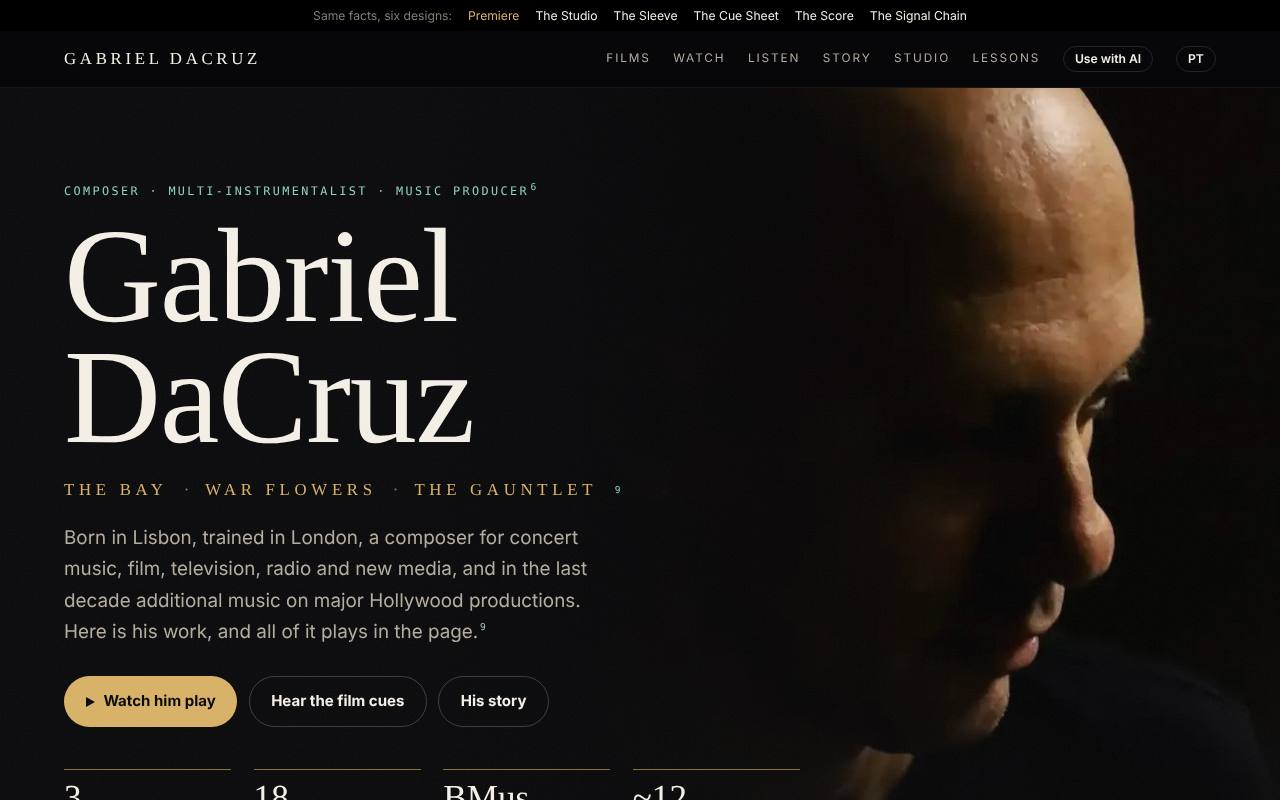
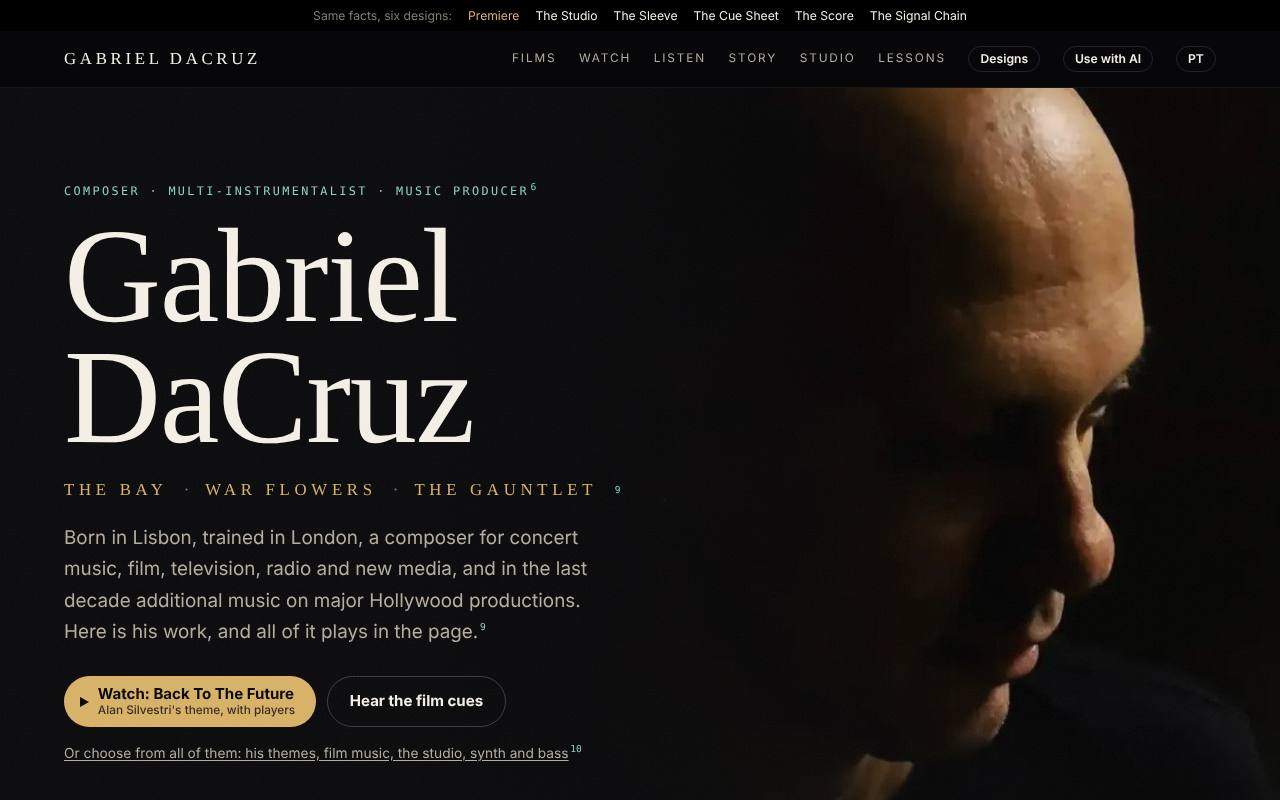
Ideas from Marc Noah's site: a hero button that plays a film, a designs picker, video filters
As Dinis pointed to marc-noah.agenticcells.site (2026-11-18). The Premiere
hero's main button now plays Back To The Future in the player instead of
scrolling. A Designs button in the header opens a picker with thumbnails of
the six designs. Every design's video section gets filter chips (All, his
own music, sung, film and concert, synth and bass), built by play.js from the
group headings, so the Portuguese page gets them in Portuguese. A new section
sets his own words beside a black-and-white photo of him at the desk. Tested
in Chromium: the hero plays, the picker opens with six designs, the chips
filter, no errors.

Agent: site@AgentiCCells.gabriel-dacruz
Claude-Session: https://claude.ai/code/session_018yvwtMzZFjMtEAasK8H6qt

diff --git a/src/index.html b/src/index.html
@@ -44,6 +44,7 @@
       <a href="#studio">Studio</a>
       <a href="#lessons">Lessons</a>
     </nav>
+    <a class="chip" href="/d/" data-designs>Designs</a>
     <a class="chip" href="/agents/">Use with AI</a>
     <a class="chip" href="/pt/" hreflang="pt" lang="pt">PT</a>
   </div>
@@ -58,10 +59,10 @@
     <p class="billing">The Bay <i>·</i> War Flowers <i>·</i> The Gauntlet<sup class="s"><a href="#s9">9</a></sup></p>
     <p class="lede">Born in Lisbon, trained in London, a composer for concert music, film, television, radio and new media, and in the last decade additional music on major Hollywood productions. Here is his work, and all of it plays in the page.<sup class="s"><a href="#s9">9</a></sup></p>
     <div class="btns">
-      <a class="btn btn-gold" href="#watch">Watch him play</a>
+      <a class="btn btn-gold btn-feature" href="https://www.youtube.com/watch?v=PQUijA_qB-U" data-yt="PQUijA_qB-U" data-title="Back To The Future, Alan Silvestri, from his channel"><span>Watch: Back To The Future<small>Alan Silvestri's theme, with players</small></span></a>
       <a class="btn btn-line" href="#listen">Hear the film cues</a>
-      <a class="btn btn-line" href="#story">His story</a>
     </div>
+    <p class="hero-or"><a href="#watch">Or choose from all of them: his themes, film music, the studio, synth and bass</a><sup class="s"><a href="#s10">10</a></sup></p>
     <div class="keys">
       <div class="key"><b>3</b><span>productions his own site leads with<sup class="s"><a href="#s9">9</a></sup></span></div>
       <div class="key"><b>18</b><span>videos and Shorts on his channel, all playable here<sup class="s"><a href="#s10">10</a></sup></span></div>
@@ -79,7 +80,7 @@
     <!--#inc films.part -->
     <div class="films-foot">
       <figure class="viz"><!--#inc fig-cuemap.svg --><figcaption>His cues on SoundCloud, placed by their names: the number before M is the reel, the number after it the cue. Cue numbers, not timings.<sup class="s"><a href="#s7">7</a></sup></figcaption></figure>
-      <blockquote class="quote">"A versatile career as a composer, working across a wide range of genres and mediums, including concert music, film, television, radio, and new media."<cite>Gabriel, on his own site<sup class="s"><a href="#s9">9</a></sup></cite></blockquote>
+      <div><p class="cap" style="margin-top:0">Three productions, seven cues on his SoundCloud. Which parts of each score he wrote is <span class="tbc">to confirm</span>; his IMDb page lists his credits.</p><a class="imdb" href="https://www.imdb.com/name/nm4704147/">IMDb</a></div>
     </div>
   </div>
 </section>
@@ -90,6 +91,18 @@
     <h2 id="watch-h">Watch him play</h2>
     <p class="intro">His themes, film music with players around him, and the studio. Eighteen videos and Shorts from his channel, and two of his themes sung, each a click away.</p>
     <!--#inc videos.part -->
+  </div>
+</section>
+
+<section class="band words" aria-labelledby="words-h">
+  <div class="wrap">
+    <figure class="words-ph"><img src="/assets/photos/studio-desk-bw-900.jpg" srcset="/assets/photos/studio-desk-bw-500.jpg 500w, /assets/photos/studio-desk-bw-900.jpg 900w" sizes="(min-width: 58rem) 30vw, 100vw" width="900" height="1080" alt="Gabriel at his studio desk with a bass, in black and white." loading="lazy"></figure>
+    <div>
+      <p class="kicker" id="words-h">The composer, in his own words</p>
+      <blockquote class="quote big">A versatile career as a composer, working across a wide range of genres and mediums, including concert music, film, television, radio, and new media.<cite>Gabriel, on his own site<sup class="s"><a href="#s9">9</a></sup></cite></blockquote>
+      <p class="intro" style="margin:1.4rem 0 1rem">Trained at the Instituto Gregoriano de Lisboa, then in London, with a BMus in Composition from the London College of Music. His brother adds the rest: the band in the Algarve, a music school, and an orchestra in Lisbon that played film music live, in time with the films.<sup class="s"><a href="#s9">9</a></sup><sup class="s"><a href="#s1">1</a></sup></p>
+      <a class="btn btn-line" href="#story">His story</a>
+    </div>
   </div>
 </section>
 
@@ -220,6 +233,7 @@
     <p>Version __VERSION__ · <a href="/d/">Six designs</a> · <a href="/pt/" hreflang="pt" lang="pt">Português</a> · <a href="https://dev.vault.sgraph.ai/#sgit_public_read_86bc4bc4edc64c4a5acf4dcda733513ccf8e2b3181605dcf7d0a45bb1be75120%3Aygs1ybi0">vault ygs1ybi0</a> · Code Apache-2.0, text and drawings CC BY 4.0, photos Gabriel's own</p>
   </div>
 </footer>
+<!--#inc designs-dialog.part -->
 <!--#inc player.part -->
 </body>
 </html>

diff --git a/src/assets/media.css b/src/assets/media.css
@@ -86,3 +86,21 @@ dialog.player.vertical .pbox { aspect-ratio: 9 / 16; max-height: 78vh; margin: 0
 .journey .jy { display: block; font: .7rem var(--m-mono); letter-spacing: .14em; text-transform: uppercase; color: var(--m-accent); }
 .journey b { display: block; font-size: 1.15rem; font-weight: 600; margin: .1rem 0 .2rem; }
 .journey li > span:last-child { display: block; color: var(--m-muted); font-size: .94rem; line-height: 1.55; }
+
+/* Filter chips (built by play.js) */
+.vfilter { display: flex; flex-wrap: wrap; gap: .45rem; margin: 0 0 1.6rem; }
+.vfilter button { font: 600 .82rem var(--m-font, inherit); font-family: inherit; color: var(--m-ink); background: transparent; border: 1px solid var(--m-line); border-radius: 999px; padding: .4rem .9rem; cursor: pointer; }
+.vfilter button:hover { border-color: var(--m-accent); }
+.vfilter button[aria-pressed="true"] { background: var(--m-accent); border-color: var(--m-accent); color: var(--m-accent-ink); }
+.vgroup[hidden] { display: none; }
+
+/* Designs picker dialog */
+dialog.picker { width: min(94vw, 62rem); padding: 0 0 1rem; border: 1px solid #3a3442; border-radius: 14px; background: #0c0b0f; color: #f2ece2; }
+dialog.picker::backdrop { background: rgba(0,0,0,.75); }
+.pick { list-style: none; margin: 0; padding: .4rem 1rem 0; display: grid; gap: .8rem; grid-template-columns: repeat(2, 1fr); }
+@media (min-width: 48rem) { .pick { grid-template-columns: repeat(3, 1fr); } }
+.pick a { display: block; color: #f2ece2; text-decoration: none; border: 1px solid #2f2a37; border-radius: 10px; overflow: hidden; background: #16141a; }
+.pick a:hover { border-color: #e0b56a; color: #f2ece2; }
+.pick img { display: block; width: 100%; height: auto; aspect-ratio: 16 / 10; object-fit: cover; object-position: top; }
+.pick b { display: block; padding: .55rem .7rem 0; font-size: .95rem; }
+.pick span { display: block; padding: 0 .7rem .6rem; font-size: .76rem; color: #a59c90; }

diff --git a/src/assets/play.js b/src/assets/play.js
@@ -32,6 +32,35 @@
       f.className = 'sc-frame'; a.replaceWith(f); f.focus();
     }
   });
+  // Filter chips over each set of video groups, built from the group headings (no markup needed).
+  var pt = (d.documentElement.lang || '').indexOf('pt') === 0;
+  d.querySelectorAll('.vids').forEach(function (box) {
+    var groups = box.querySelectorAll('.vgroup');
+    if (groups.length < 2) return;
+    var bar = d.createElement('div'); bar.className = 'vfilter'; bar.setAttribute('role', 'group');
+    bar.setAttribute('aria-label', pt ? 'Filtrar os vídeos' : 'Filter the videos');
+    function chip(label, g) {
+      var b = d.createElement('button'); b.type = 'button'; b.textContent = label;
+      b.setAttribute('aria-pressed', g === 'all' ? 'true' : 'false');
+      b.addEventListener('click', function () {
+        bar.querySelectorAll('button').forEach(function (x) { x.setAttribute('aria-pressed', x === b ? 'true' : 'false'); });
+        groups.forEach(function (x) { x.hidden = !(g === 'all' || x === g); });
+      });
+      bar.appendChild(b);
+    }
+    chip(pt ? 'Todos' : 'All', 'all');
+    groups.forEach(function (g) { var h = g.querySelector('h4'); if (h) chip(h.textContent, g); });
+    box.insertBefore(bar, box.firstChild);
+  });
+  // The designs picker, opened from any link marked data-designs.
+  var dd = d.getElementById('designs');
+  d.addEventListener('click', function (e) {
+    var a = e.target.closest && e.target.closest('a[data-designs]');
+    if (a && dd && dd.showModal && !e.metaKey && !e.ctrlKey) { e.preventDefault(); opener = a; dd.showModal(); }
+  });
+  if (dd) dd.addEventListener('click', function (e) {
+    if (e.target.closest('.pclose') || e.target === dd) dd.close();
+  });
   if (dlg) {
     dlg.addEventListener('click', function (e) {
       if (e.target.closest('.pclose')) { dlg.close(); return; }

diff --git a/src/assets/premiere.css b/src/assets/premiere.css
@@ -164,3 +164,17 @@ figure.viz figcaption, .cap { font-size: .8rem; color: var(--dim); margin-top: .
 footer.site { background: #000; color: var(--muted); padding: 3rem 0; font-size: .84rem; }
 footer.site .sig { font: 400 1rem var(--display); letter-spacing: .22em; text-transform: uppercase; color: var(--ink); margin: 0 0 1rem; }
 footer.site p { margin: .4rem 0; max-width: 56rem; }
+
+/* From marc-noah: a hero button that plays a film, a portrait beside his words */
+.btn-feature { padding: .55rem 1.3rem .55rem 1rem; }
+.btn-feature span { display: flex; flex-direction: column; line-height: 1.2; }
+.btn-feature small { font-weight: 500; font-size: .74rem; opacity: .8; }
+.hero-or { margin: .9rem 0 0; font-size: .86rem; }
+.hero-or a { color: var(--muted); }
+.hero-or a:hover { color: var(--gold); }
+.words .wrap { display: grid; gap: 2.5rem; grid-template-columns: 1fr; align-items: center; }
+@media (min-width: 58rem) { .words .wrap { grid-template-columns: .8fr 1.2fr; gap: 4rem; } }
+.words-ph { margin: 0; }
+.words-ph img { display: block; width: 100%; height: auto; border-radius: 6px; }
+.quote.big { font-size: clamp(1.6rem, 3.4vw, 2.5rem); border: 0; padding: 0; }
+.quote.big::before { content: "“"; display: block; font: 400 5rem/0.6 var(--display); color: var(--gold); margin-bottom: .6rem; }

diff --git a/REALITY.md b/REALITY.md
@@ -5,7 +5,7 @@ A thing not written here does not exist. Kept by site@AgentiCCells.gabriel-dacru
 ## Live
 
 - https://gabriel-dacruz.agenticcells.site, deployed from branch `dev` by `.github/workflows/pages.yml`. The version is at `/version.json`.
-- Home page, English (`src/index.html`), design "Premiere" since 2026-11-18 (Dinis Cruz: "really go to town into making my brother website into another level"): his portrait, the three productions as drawn title cards, a cue map, a journey map, all 18 YouTube videos and Shorts and the two SoundCloud playlists click-to-play (`src/assets/play.js`, `src/assets/media.css`), Separate Ways explained, the studio, lessons, the plan, sources. The earlier home page, "The Studio", is at `/d/studio/`.
+- Home page, English (`src/index.html`), design "Premiere" since 2026-11-18 (Dinis Cruz: "really go to town into making my brother website into another level"): his portrait, the three productions as drawn title cards, a cue map, a journey map, all 18 YouTube videos and Shorts and the two SoundCloud playlists click-to-play (`src/assets/play.js`, `src/assets/media.css`), Separate Ways explained, the studio, lessons, the plan, sources. The earlier home page, "The Studio", is at `/d/studio/`. From marc-noah.agenticcells.site (Dinis, 2026-11-18): a hero button that plays a film (Back To The Future) in the dialog, a Designs picker dialog in the header, filter chips over the videos on every design (built by play.js from the group headings, EN and PT), and a black-and-white photo beside his own words.
 - Earlier note on The Studio: Sections: hero with key figures; 01 Separate Ways, frame by frame; 02 three cameras (Live Multicam); 03 the music (suite, Patreon compositions, videos); 04 his path, as told by Dinis; 05 lessons; 06 photo slots (empty); 07 links; 08 sources.
 - Figures are inline SVG in `src/_inc/`, pulled into pages by `scripts/build.mjs` (`<!--#inc name -->`): three frames of the video, the decay and delay envelope, the Live Multicam setup, the film concert idea. Drawn for this site, CC BY 4.0; no third-party images.
 - Use with AI: `src/llms.txt`, `src/index.md` (the master copy of the facts), `src/agents/index.html` (for people) and `src/agents/{visitor,gabriel,editor,questions}.md`.
